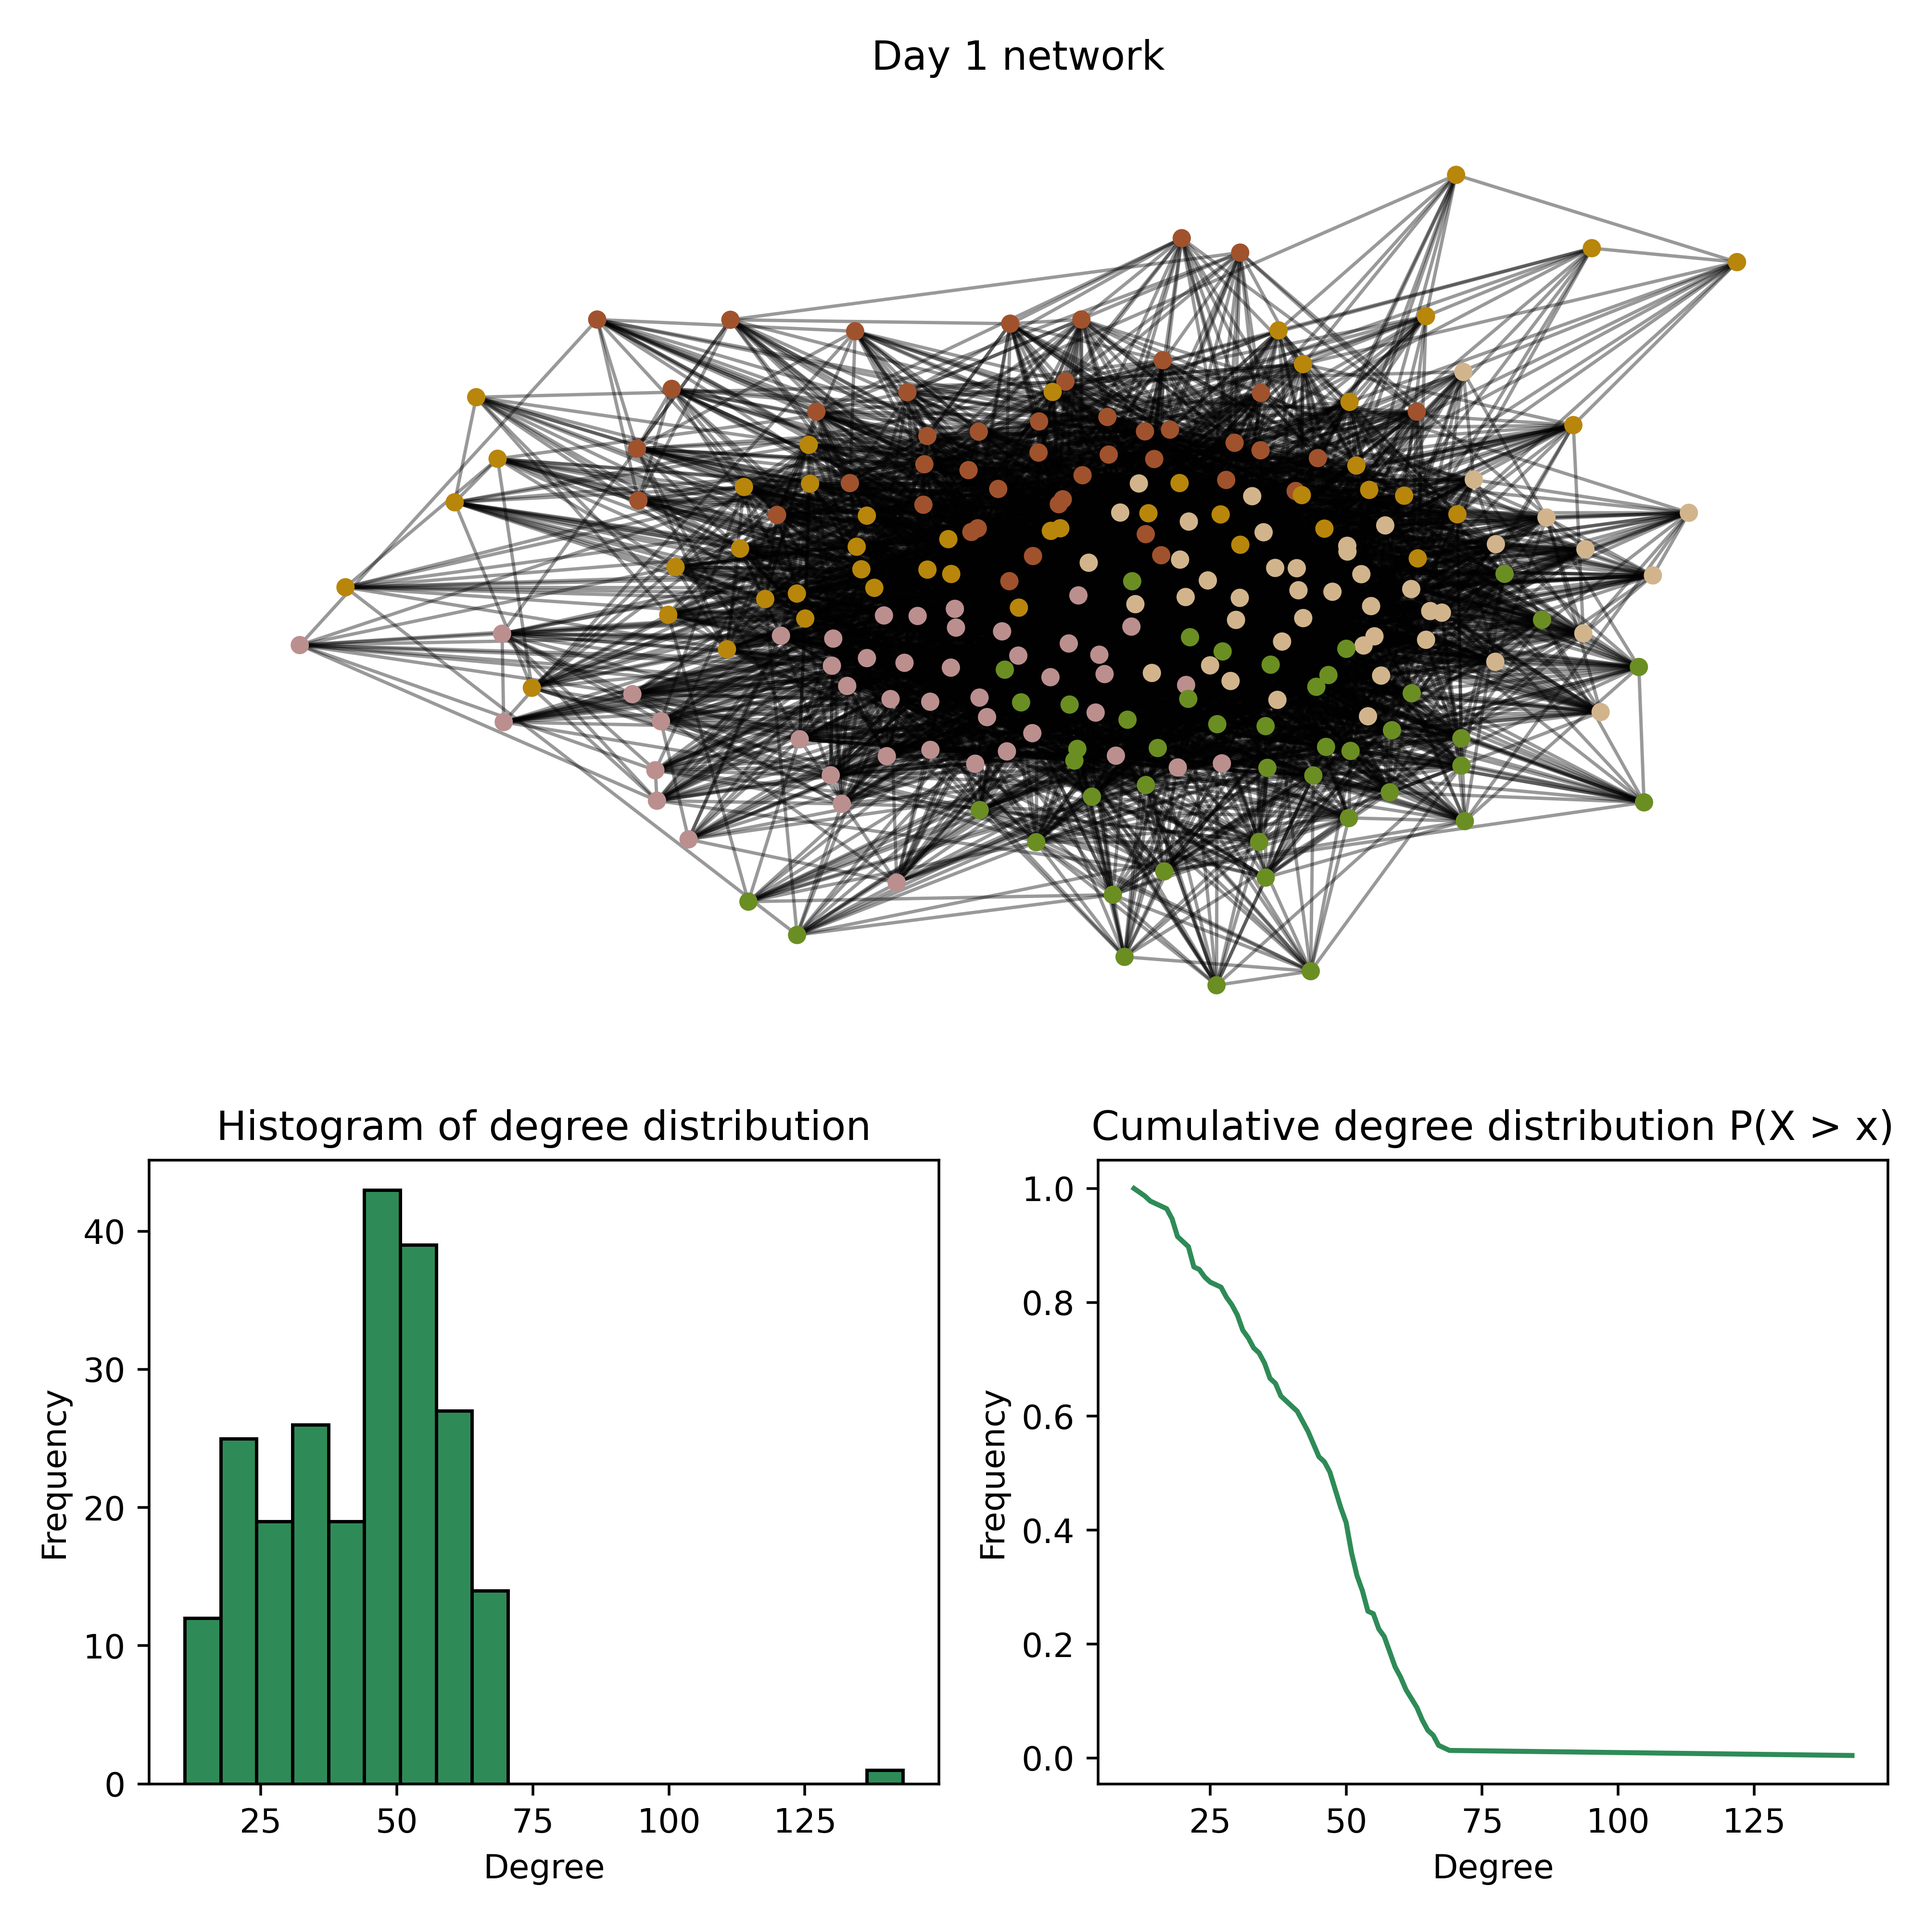
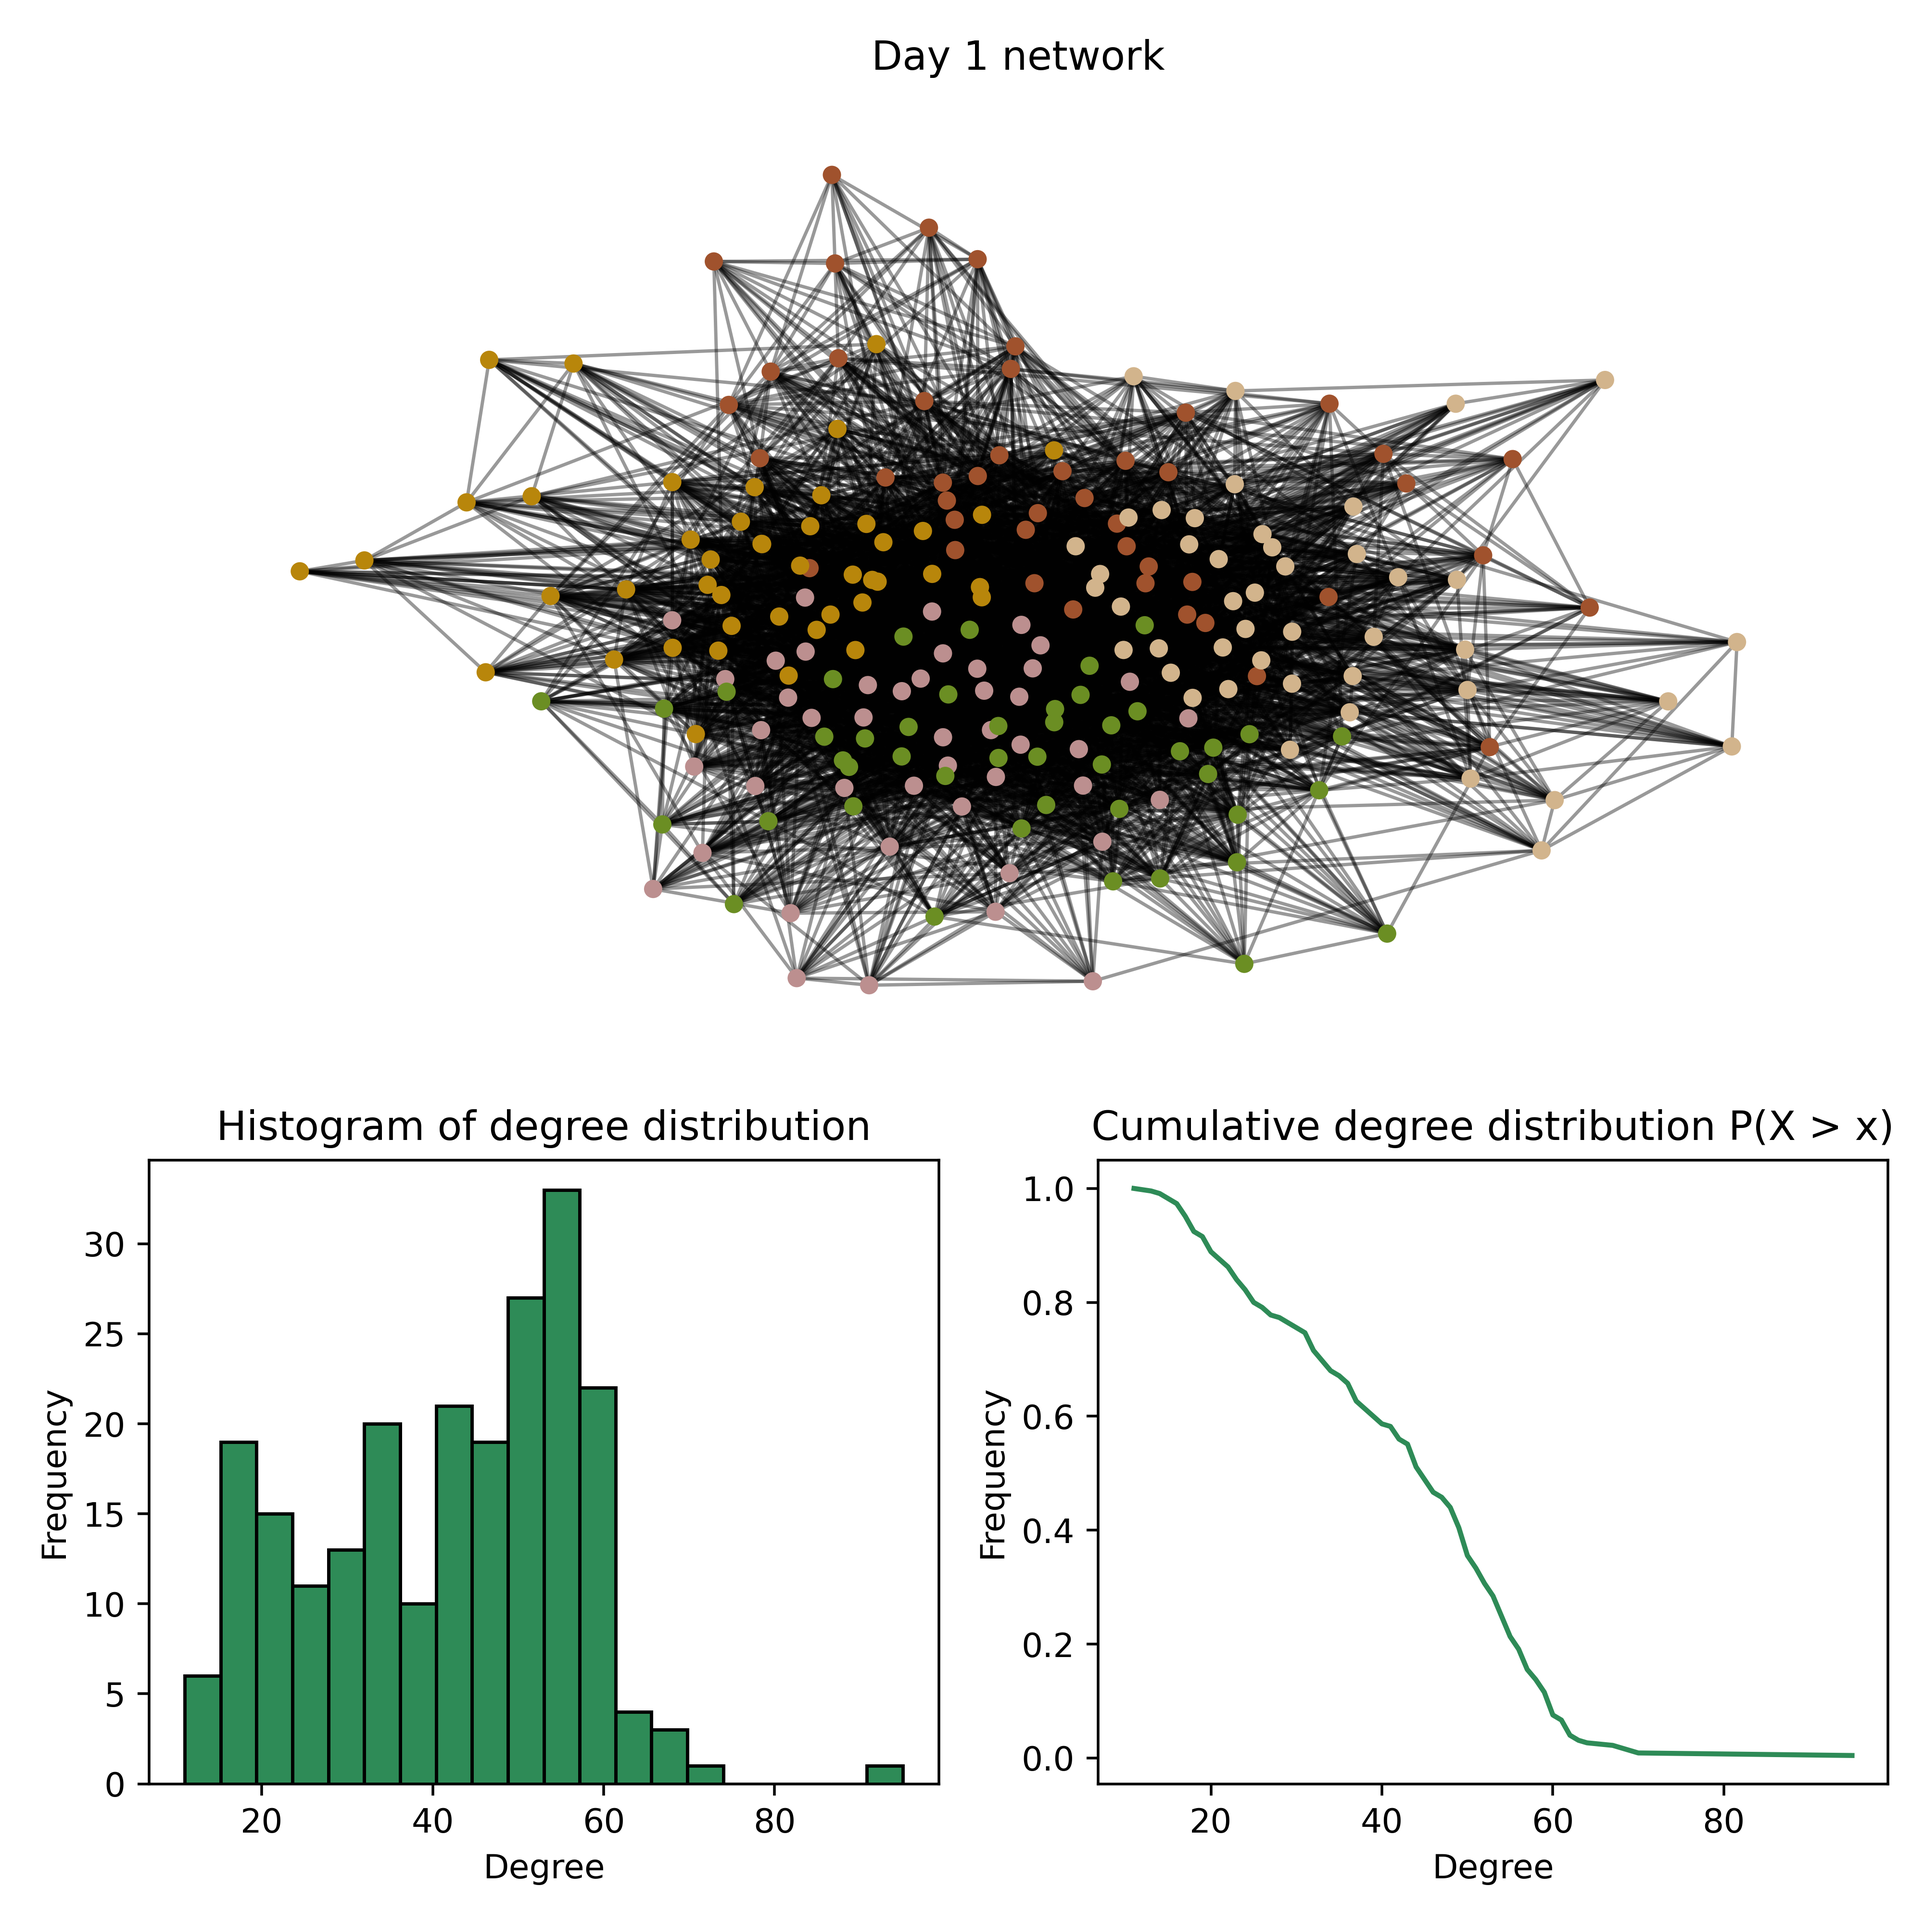
Divided interaction in iterator by number of times weight has been added

diff --git a/network.py b/network.py
@@ -254,7 +254,6 @@ class Network:
         return dayGraph  ## Only returns the final hour. should it not create something based on all hours?
 
     def generate_iterations(self, number) -> nx.Graph:
-        # TODO: change naming -> this is a more robust network
         """Generates number number of days and returns the nx.Graph from the final day
 
         Parameters
@@ -277,19 +276,20 @@ class Network:
 
         #!!dayGraph = nx.empty_graph(self.daily_list[0])
         dayGraph = self.daily_list[0]
-
+        d = {}
         for graph in self.daily_list:
             for node, neighbour, attrs in graph.edges.data():
                 if not dayGraph.has_edge(node, neighbour):
+                    #dayGraph.add_edge(node, neighbour, count=attrs["count"])
                     continue
-                    # dayGraph.add_edge(node, neighbour, count=attrs["count"])
                 else:
                     dayGraph[node][neighbour]["count"] += attrs["count"]
+                    d[(node, neighbour)] = d.get((node, neighbour), 0) + 1
 
         for node, neighbour, attrs in graph.edges.data():
             attrs["count"] = (
-                attrs["count"] / number
-            )  # Må finne en måte å dele på antall ganger denne spesifikke edgen har blitt plusset på
+                attrs["count"] / d.get((node, neighbour), 1)
+            )  #TODO Må finne en måte å dele på antall ganger denne spesifikke edgen har blitt plusset på
 
         dayNumberX = dayGraph  # self.daily_list[-1]  # Returns the final day
 

diff --git a/analysis.py b/analysis.py
@@ -29,14 +29,14 @@ from sklearn.ensemble import GradientBoostingClassifier
 class Analysis:
     """A class to analyse Network objects
 
-    Longer class information...
+    Longer class information.
 
     Attributes
     ----------
     network : nx.Graph
         Network object containing a nx.GraphX graph
 
-    Method
+    Methods
     ------
     create_sub_graph_off_diagonal(self, graph, grade, class_interaction)
         Returns a subgraph of the original graph where grade and/or class

diff --git a/main.py b/main.py
@@ -16,7 +16,7 @@ def main():
 
     analysis = Analysis(network)
 
-    G = network.generate_iterations(10)
+    G = network.generate_iterations(3)
 
     analysis.pixel_dist_school(G, old=True, both=True)
     analysis.degree_distribution_layers(sim=G, experimental=True, both=True)
